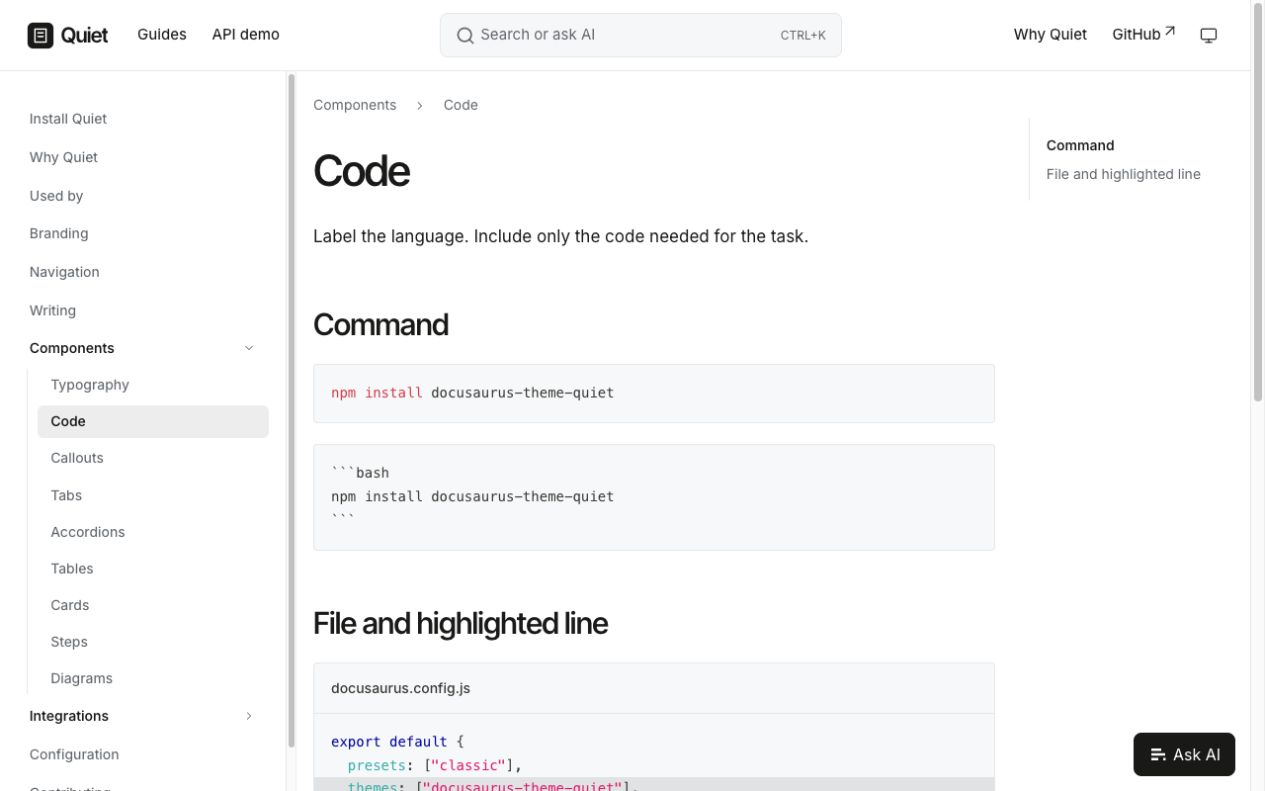
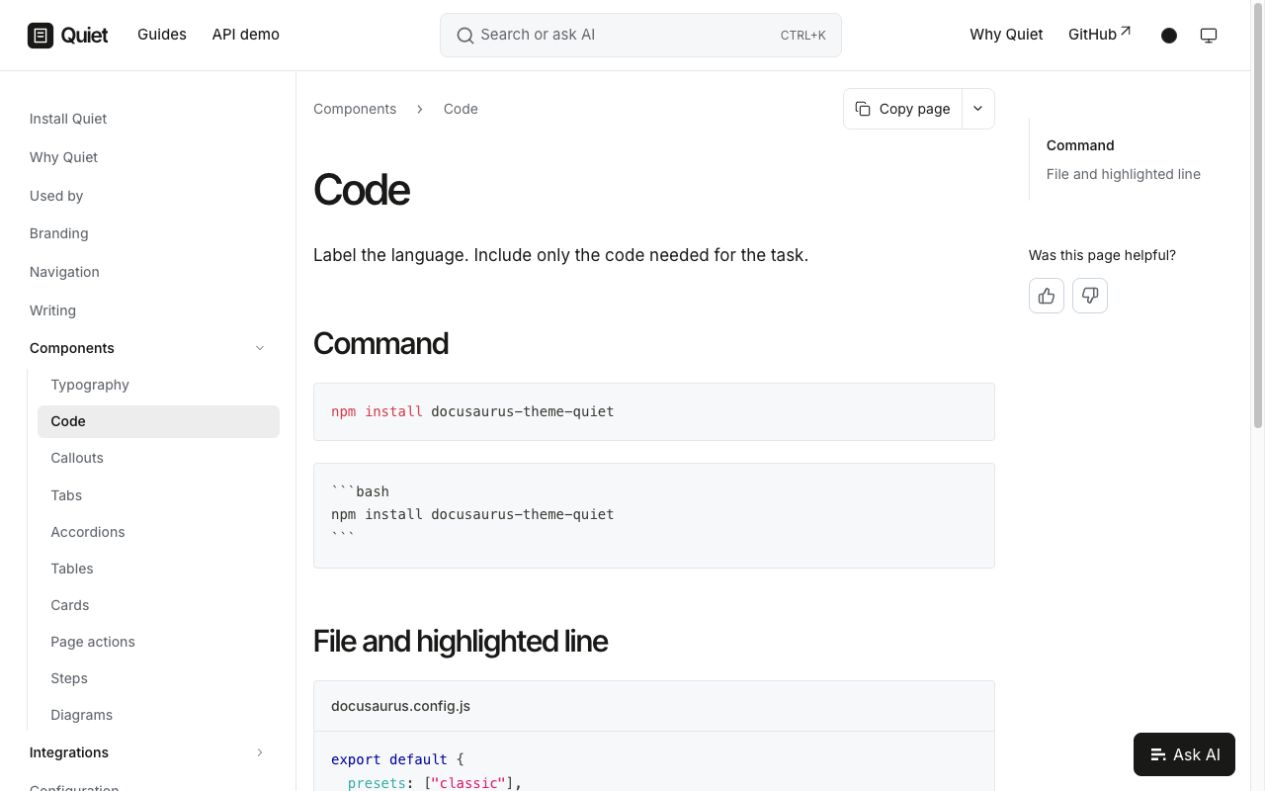
docs: simplify package README and refresh screenshot

diff --git a/packages/theme/README.md b/packages/theme/README.md
@@ -35,12 +35,6 @@ themes: [
 ];
 ```
 
-Use Docusaurus settings for logos and navigation. CSS variables control fonts, width and surfaces. Quiet supports light and dark modes, adds MDX cards and steps, and keeps Classic's routing, keyboard behavior and metadata.
-
-Search, AI assistance and feedback are optional integrations. The theme loads no external fonts or services.
-
-The footer shows **Powered by Quiet** by default. Set `showCredit: false` to remove it.
+[See the documentation](https://quiet.techdocs.studio/configuration) for more options.
 
 MIT · By [TechDocs Studio](https://techdocs.studio).
-
-[Page actions](https://quiet.techdocs.studio/components/page-actions) are an ordered, extensible dictionary. Add links or copy buttons, configure MCP commands, or disable the module. Optional PushFeedback thumbs sit beside the document on desktop.
